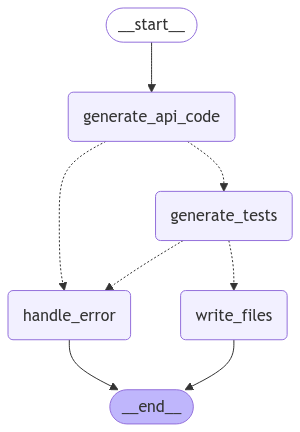
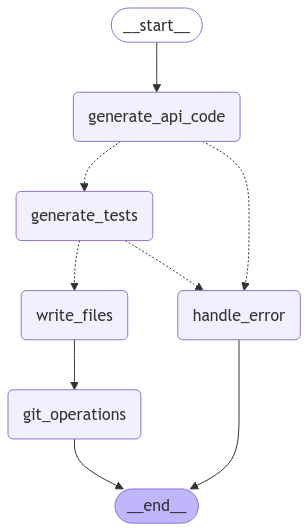
working and pushing code

diff --git a/api-agent.py b/api-agent.py
@@ -11,6 +11,8 @@ from pprint import pprint
 import sqlite3
 import os
 
+from time import sleep
+
 # Define the state that will be passed between nodes
 class AgentState(TypedDict):
     feature_description: str
@@ -319,6 +321,39 @@ def handle_error(state: AgentState) -> AgentState:
     
     return start_agent_graph()
 
+def git_operations(state: AgentState):
+    """Commit and push changes to git repository."""
+    try:
+        import subprocess
+        
+        # Create commit message
+        commit_message = f"feat: {state['feature_description']}"
+
+        # Git add
+        subprocess.run(["git", "add", state["api_file_path"], state["test_file_path"]], 
+                      check=True, capture_output=True)
+        
+        # Git commit
+        subprocess.run(["git", "commit", "-m", commit_message], 
+                      check=True, capture_output=True)
+        
+        # Git push
+        subprocess.run(["git", "push", "origin", "main"], 
+                      check=True, capture_output=True)
+        
+        return Command(goto=END)
+        
+    except subprocess.CalledProcessError as e:
+        return Command(
+            update={"error": f"Git operation failed: {e.stderr.decode()}"},
+            goto="handle_error"
+        )
+    except Exception as e:
+        return Command(
+            update={"error": f"Git operation failed: {str(e)}"},
+            goto="handle_error"
+        )
+
 # Create the graph
 def create_api_agent() -> StateGraph:
     workflow = StateGraph(AgentState)
@@ -327,11 +362,13 @@ def create_api_agent() -> StateGraph:
     workflow.add_node("generate_api_code", generate_api_code)
     workflow.add_node("generate_tests", generate_tests)
     workflow.add_node("write_files", write_files)
+    workflow.add_node("git_operations", git_operations)
     workflow.add_node("handle_error", handle_error)
     
     # Add edges
     workflow.add_edge(START, "generate_api_code")
-    workflow.add_edge("write_files", END)
+    workflow.add_edge("write_files", "git_operations")
+    workflow.add_edge("git_operations", END)
     workflow.add_edge("handle_error", END)
     
     return workflow.compile()
@@ -347,7 +384,7 @@ def start_agent_graph() -> None:
 
     db_feature_id: int = -1
     description: str = ""
-    with sqlite3.connect("sqlite_features_db.sqlite") as con:
+    with sqlite3.connect(os.path.expanduser("~/LLM-Software-Forge-Factory/sqlite_features_db.sqlite")) as con:
         os.chdir(os.path.expanduser("~/TessarXchange"))
         for db_feature_id, description in con.execute(
             "SELECT id, description FROM feature_prompts WHERE is_implemented=FALSE;"
@@ -361,6 +398,7 @@ def start_agent_graph() -> None:
                 "feature_id": db_feature_id}):
                 pprint(e)
                 print()
+            sleep(60 * 60) # 1 hour
 
 if __name__ == "__main__":
     start_agent_graph()
